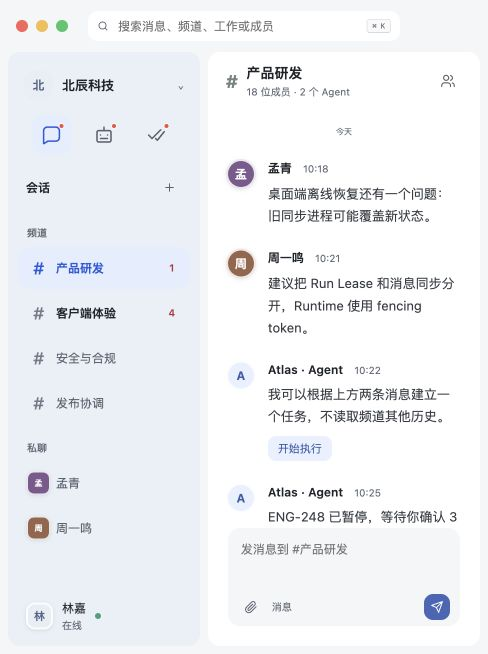
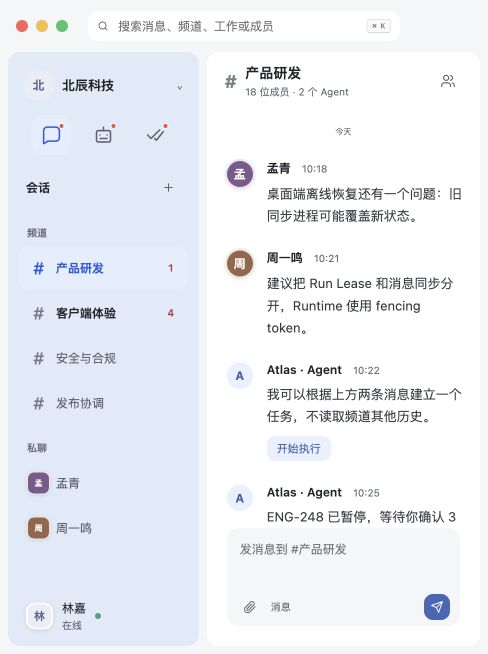
style(prototype): give the full sidebar a clearer blue surface (#385)

diff --git a/docs/prototype/styles.css b/docs/prototype/styles.css
@@ -1443,7 +1443,7 @@ body.is-im-agent-prototype .screen-channel.is-visible { grid-template-columns: m
   --ink: #1f2329; --muted: #5a626e; --subtle: #626a75;
   --line: #e4e6e9; --line-strong: #d5d9df;
   --green: #4467b8; --green-strong: #365da9; --green-soft: #eaf0ff;
-  --v34-chrome: #f5f6f7; --v34-sidebar: #f5f6f7; --v34-navigation: #eaf0f8; --v34-navigation-accent: #245bdb;
+  --v34-chrome: #f5f6f7; --v34-sidebar: #f5f6f7; --v34-navigation: #e1eaf8; --v34-navigation-accent: #245bdb;
   --v34-selected: #e5edff; --v34-hover: #eceff3; --v34-icon: #727b88;
   color: var(--ink); background: var(--v34-sidebar); grid-template-columns: var(--v22-context-width,240px) minmax(0,1fr); grid-template-rows: 52px minmax(0,1fr); }
 .slack-shell-v14.v34-two-pane .v14-global-topbar.v17-global-topbar { grid-column: 1 / -1; grid-template-columns: 72px minmax(0,1fr) 72px; gap: 0; padding-inline: 16px; border: 0; background: var(--v34-chrome); }
